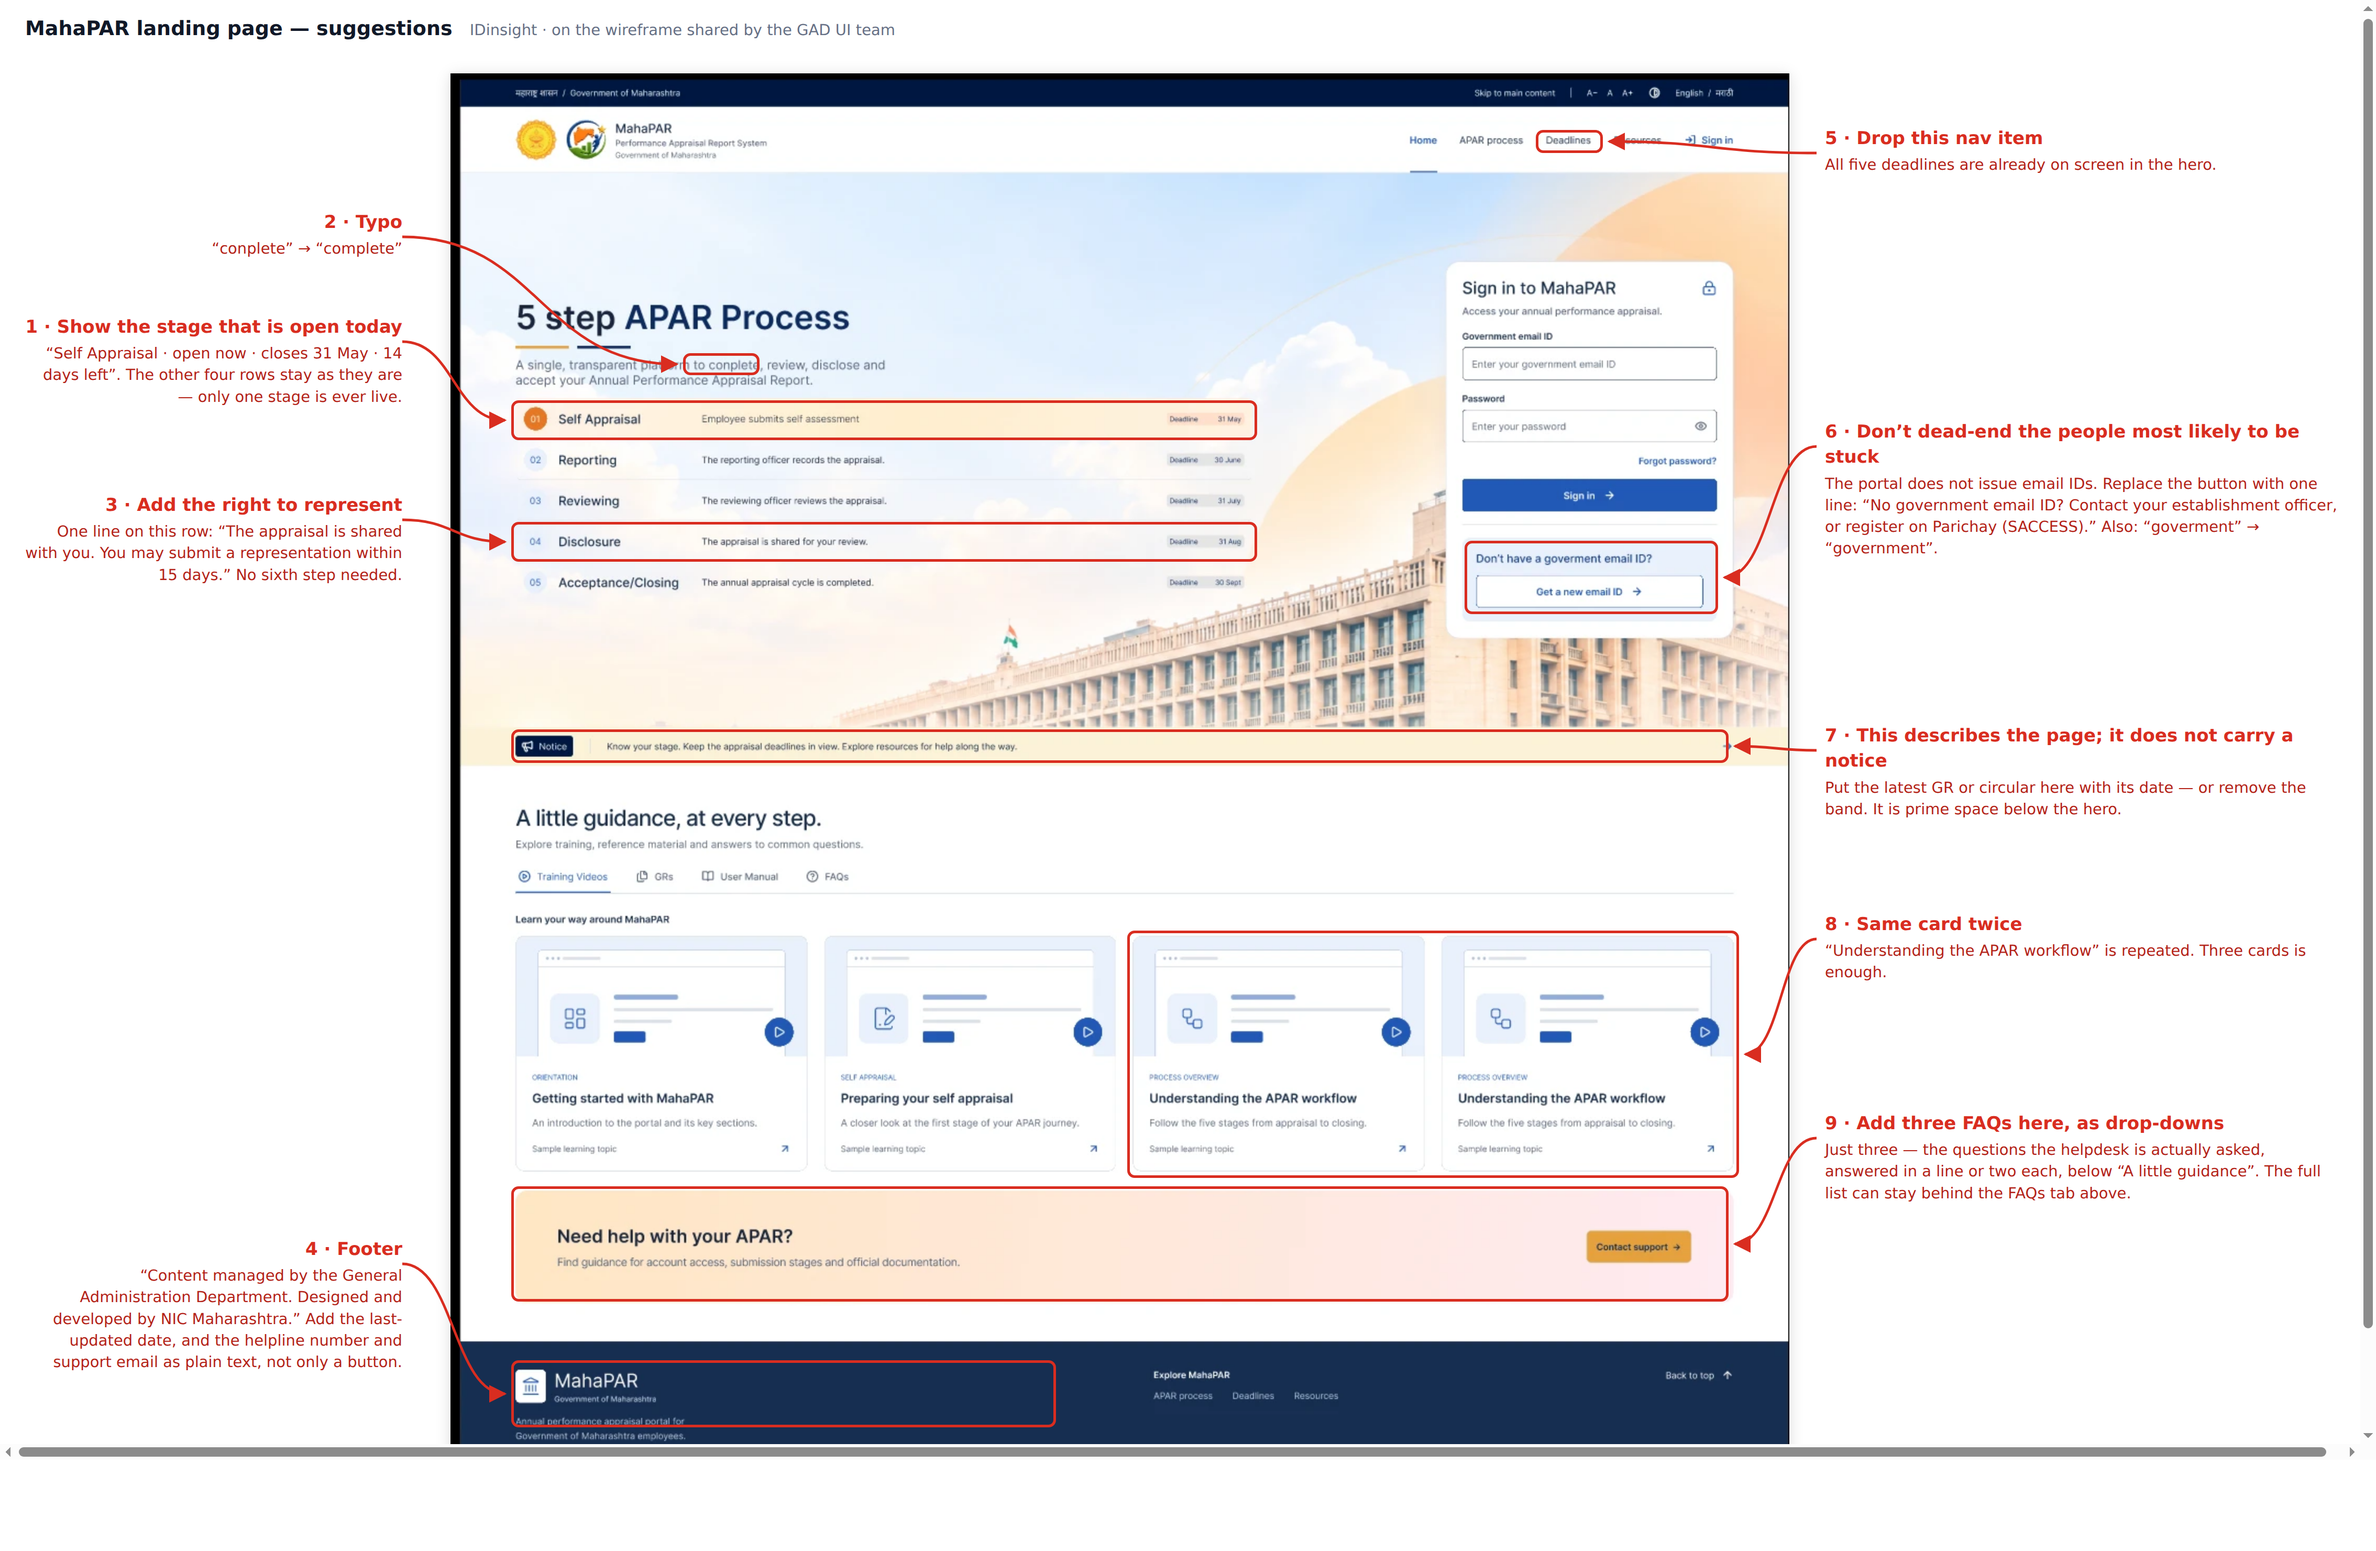
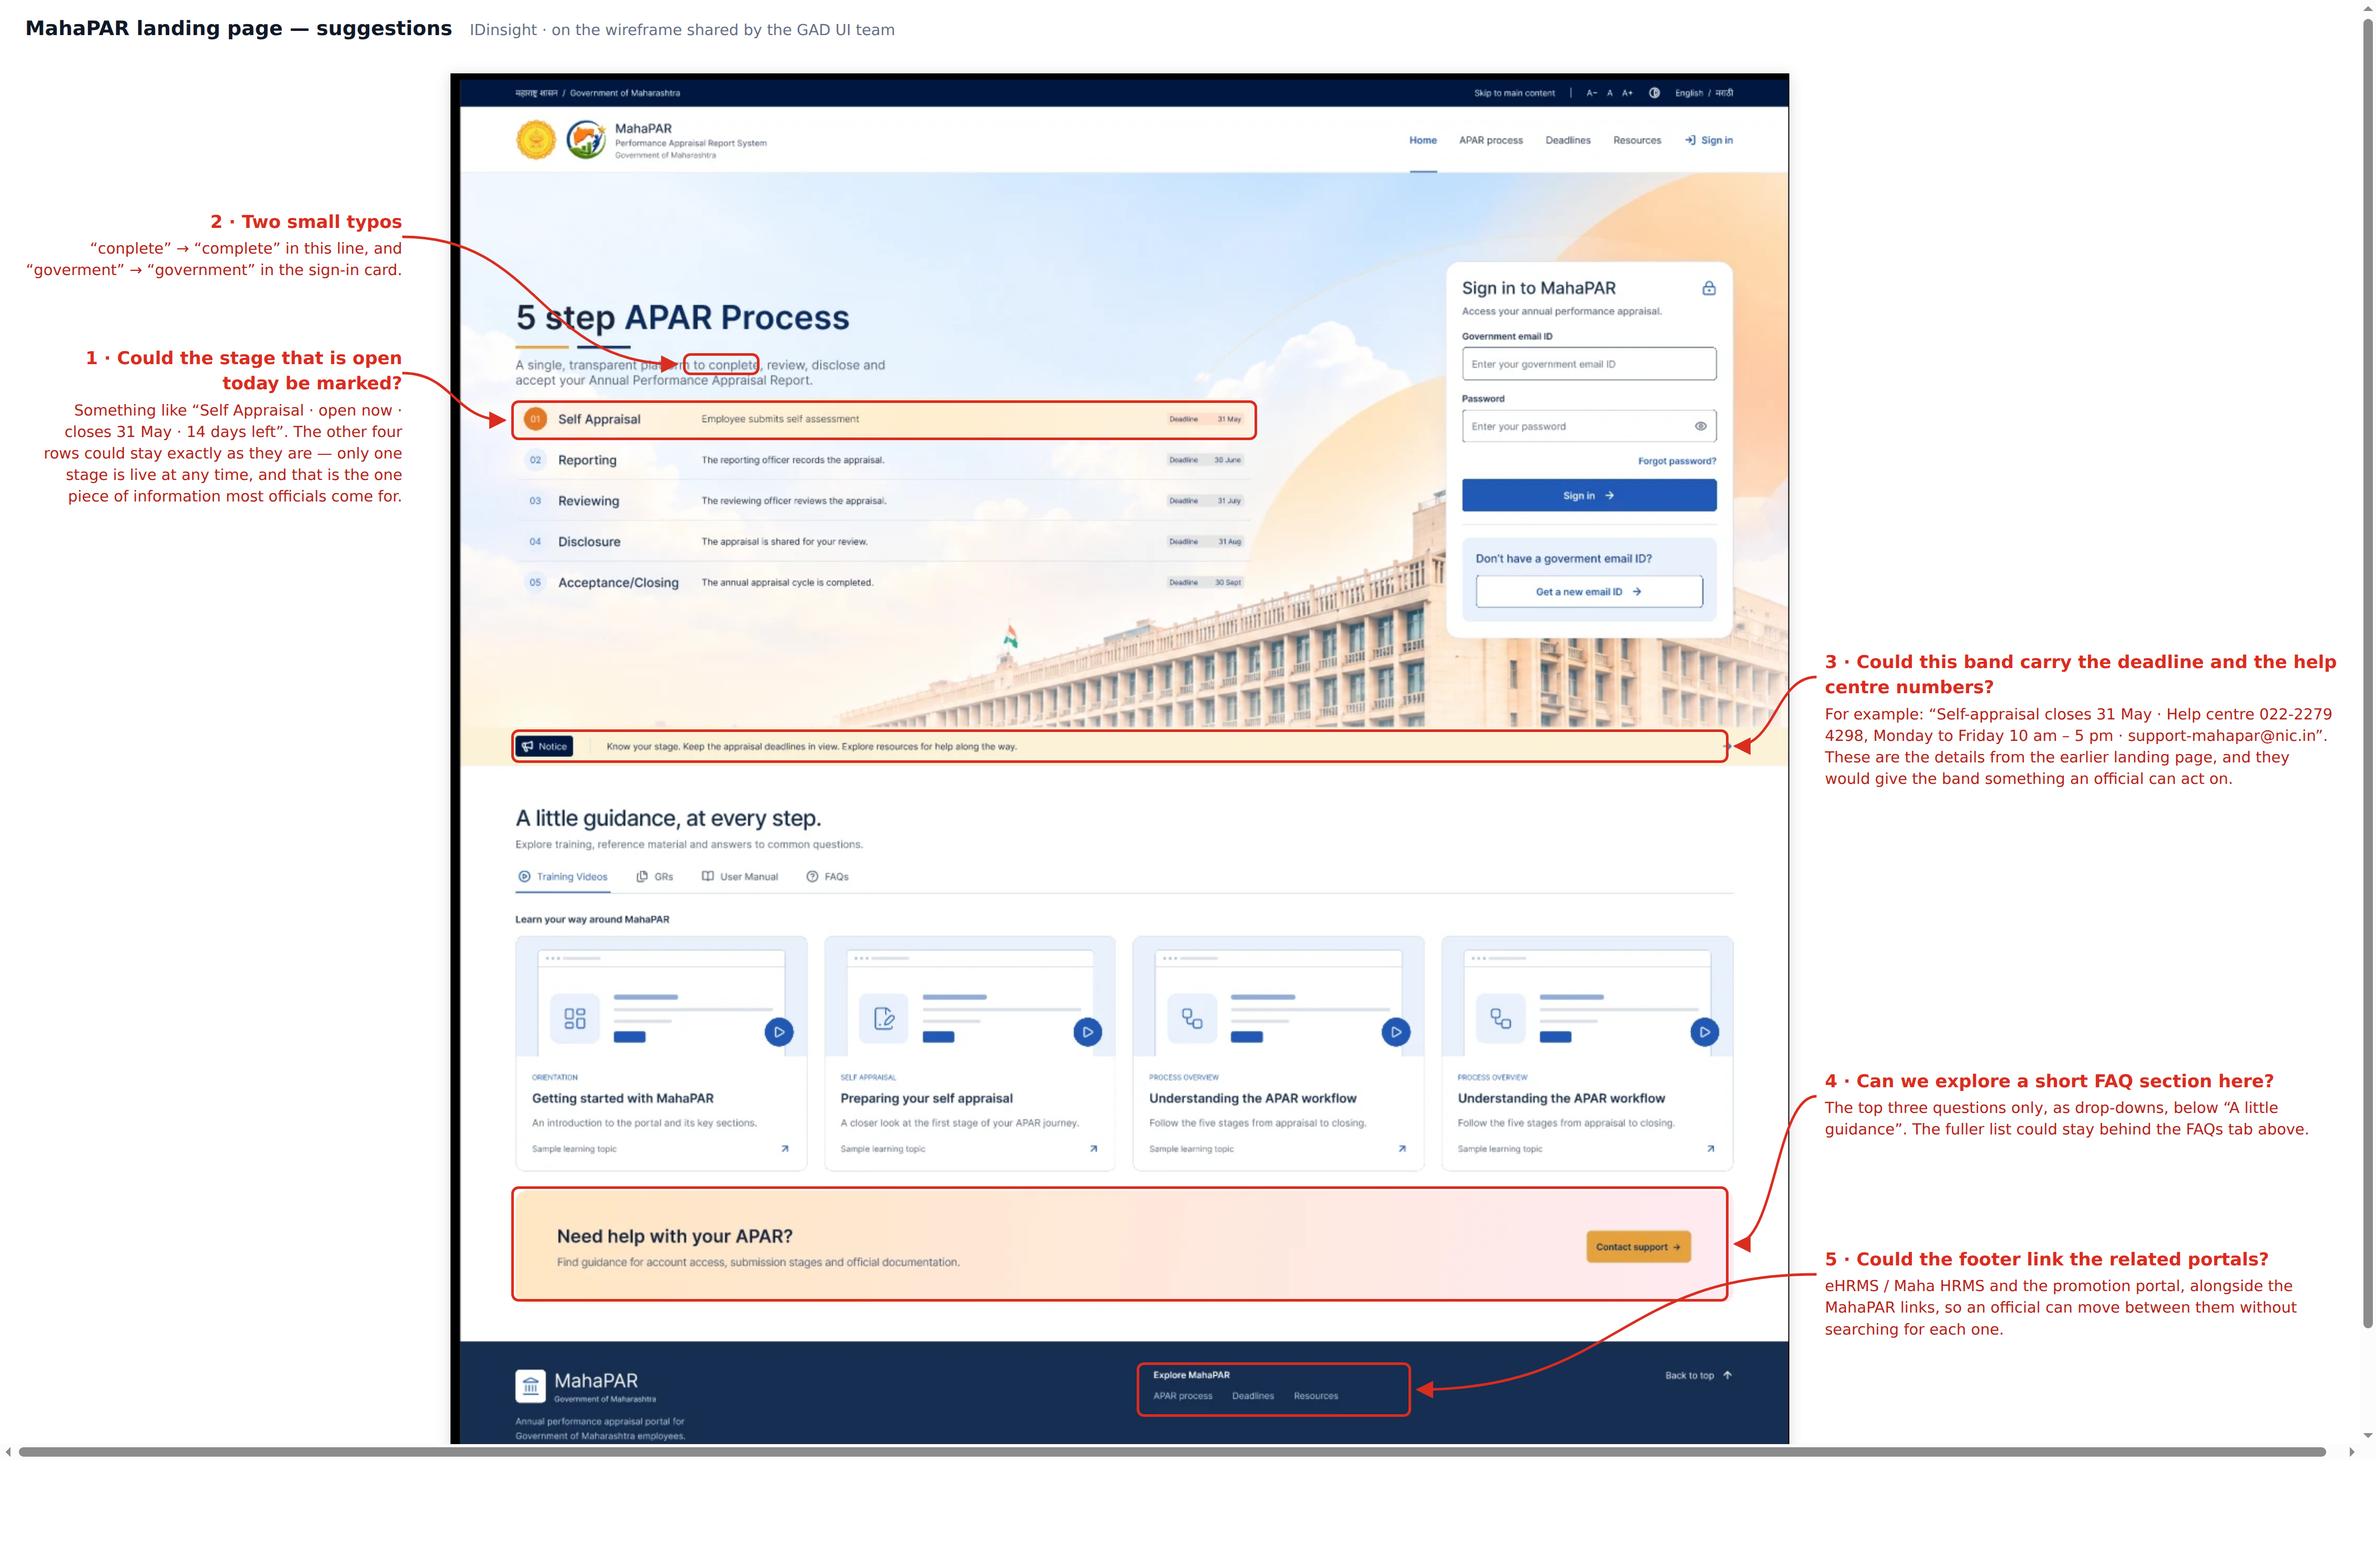
Cut the wireframe suggestions to five, in a softer register
Drops the duplicate-card, right-to-represent, nav-item, sign-in and
footer-attribution notes - mock-up artefacts or points the GAD team has
already made themselves.

Keeps the live-stage and typo notes, rewrites the notice-band note to
carry the deadline and the helpdesk number and email from the earlier
landing page, and adds a note on linking eHRMS / Maha HRMS and the
promotion portal from the footer.

All five are now phrased as questions rather than instructions.

Claude-Session: https://claude.ai/code/session_01AhMN5FiNi4YFAySXnrayG5

diff --git a/mahapar_review_assets/annotate_wireframe.py b/mahapar_review_assets/annotate_wireframe.py
@@ -24,41 +24,29 @@ RED = "#D92D20"
 
 # (box on the wireframe), (note text), side, note y on canvas
 NOTES = [
- dict(box=(58, 312, 712, 38), side="L", ny=300,
-      title="Show the stage that is open today",
-      body="“Self Appraisal · open now · closes 31 May · 14 days left”. "
-           "The other four rows stay as they are — only one stage is ever live."),
+ dict(box=(58, 312, 712, 38), side="L", ny=330,
+      title="Could the stage that is open today be marked?",
+      body="Something like “Self Appraisal · open now · closes 31 May · 14 days left”. "
+           "The other four rows could stay exactly as they are — only one stage is live "
+           "at any time, and that is the one piece of information most officials come for."),
  dict(box=(222, 267, 73, 21), side="L", ny=200,
-      title="Typo", body="“conplete” → “complete”"),
- dict(box=(58, 428, 712, 38), side="L", ny=470,
-      title="Add the right to represent",
-      body="One line on this row: “The appraisal is shared with you. You may "
-           "submit a representation within 15 days.” No sixth step needed."),
- dict(box=(58, 1228, 520, 64), side="L", ny=1180,
-      title="Footer",
-      body="“Content managed by the General Administration Department. Designed "
-           "and developed by NIC Maharashtra.” Add the last-updated date, and the "
-           "helpline number and support email as plain text, not only a button."),
- dict(box=(1036, 54, 64, 22), side="R", ny=120,
-      title="Drop this nav item",
-      body="All five deadlines are already on screen in the hero."),
- dict(box=(968, 446, 242, 70), side="R", ny=400,
-      title="Don’t dead-end the people most likely to be stuck",
-      body="The portal does not issue email IDs. Replace the button with one line: "
-           "“No government email ID? Contact your establishment officer, or register "
-           "on Parichay (SACCESS).”  Also: “goverment” → “government”."),
- dict(box=(58, 626, 1162, 32), side="R", ny=690,
-      title="This describes the page; it does not carry a notice",
-      body="Put the latest GR or circular here with its date — or remove the band. "
-           "It is prime space below the hero."),
- dict(box=(646, 818, 584, 236), side="R", ny=870,
-      title="Same card twice",
-      body="“Understanding the APAR workflow” is repeated. Three cards is enough."),
- dict(box=(58, 1062, 1162, 110), side="R", ny=1060,
-      title="Add three FAQs here, as drop-downs",
-      body="Just three — the questions the helpdesk is actually asked, answered in a "
-           "line or two each, below “A little guidance”. The full list can stay behind "
-           "the FAQs tab above."),
+      title="Two small typos",
+      body="“conplete” → “complete” in this line, and “goverment” → “government” "
+           "in the sign-in card."),
+ dict(box=(58, 626, 1162, 32), side="R", ny=620,
+      title="Could this band carry the deadline and the help centre numbers?",
+      body="For example: “Self-appraisal closes 31 May · Help centre 022-2279 4298, "
+           "Monday to Friday 10 am – 5 pm · support-mahapar@nic.in”. These are the "
+           "details from the earlier landing page, and they would give the band something "
+           "an official can act on."),
+ dict(box=(58, 1062, 1162, 110), side="R", ny=1020,
+      title="Can we explore a short FAQ section here?",
+      body="The top three questions only, as drop-downs, below “A little guidance”. "
+           "The fuller list could stay behind the FAQs tab above."),
+ dict(box=(655, 1230, 262, 52), side="R", ny=1190,
+      title="Could the footer link the related portals?",
+      body="eHRMS / Maha HRMS and the promotion portal, alongside the MahaPAR links, "
+           "so an official can move between them without searching for each one."),
 ]
 
 b64 = base64.b64encode(open(SHOT, "rb").read()).decode()
